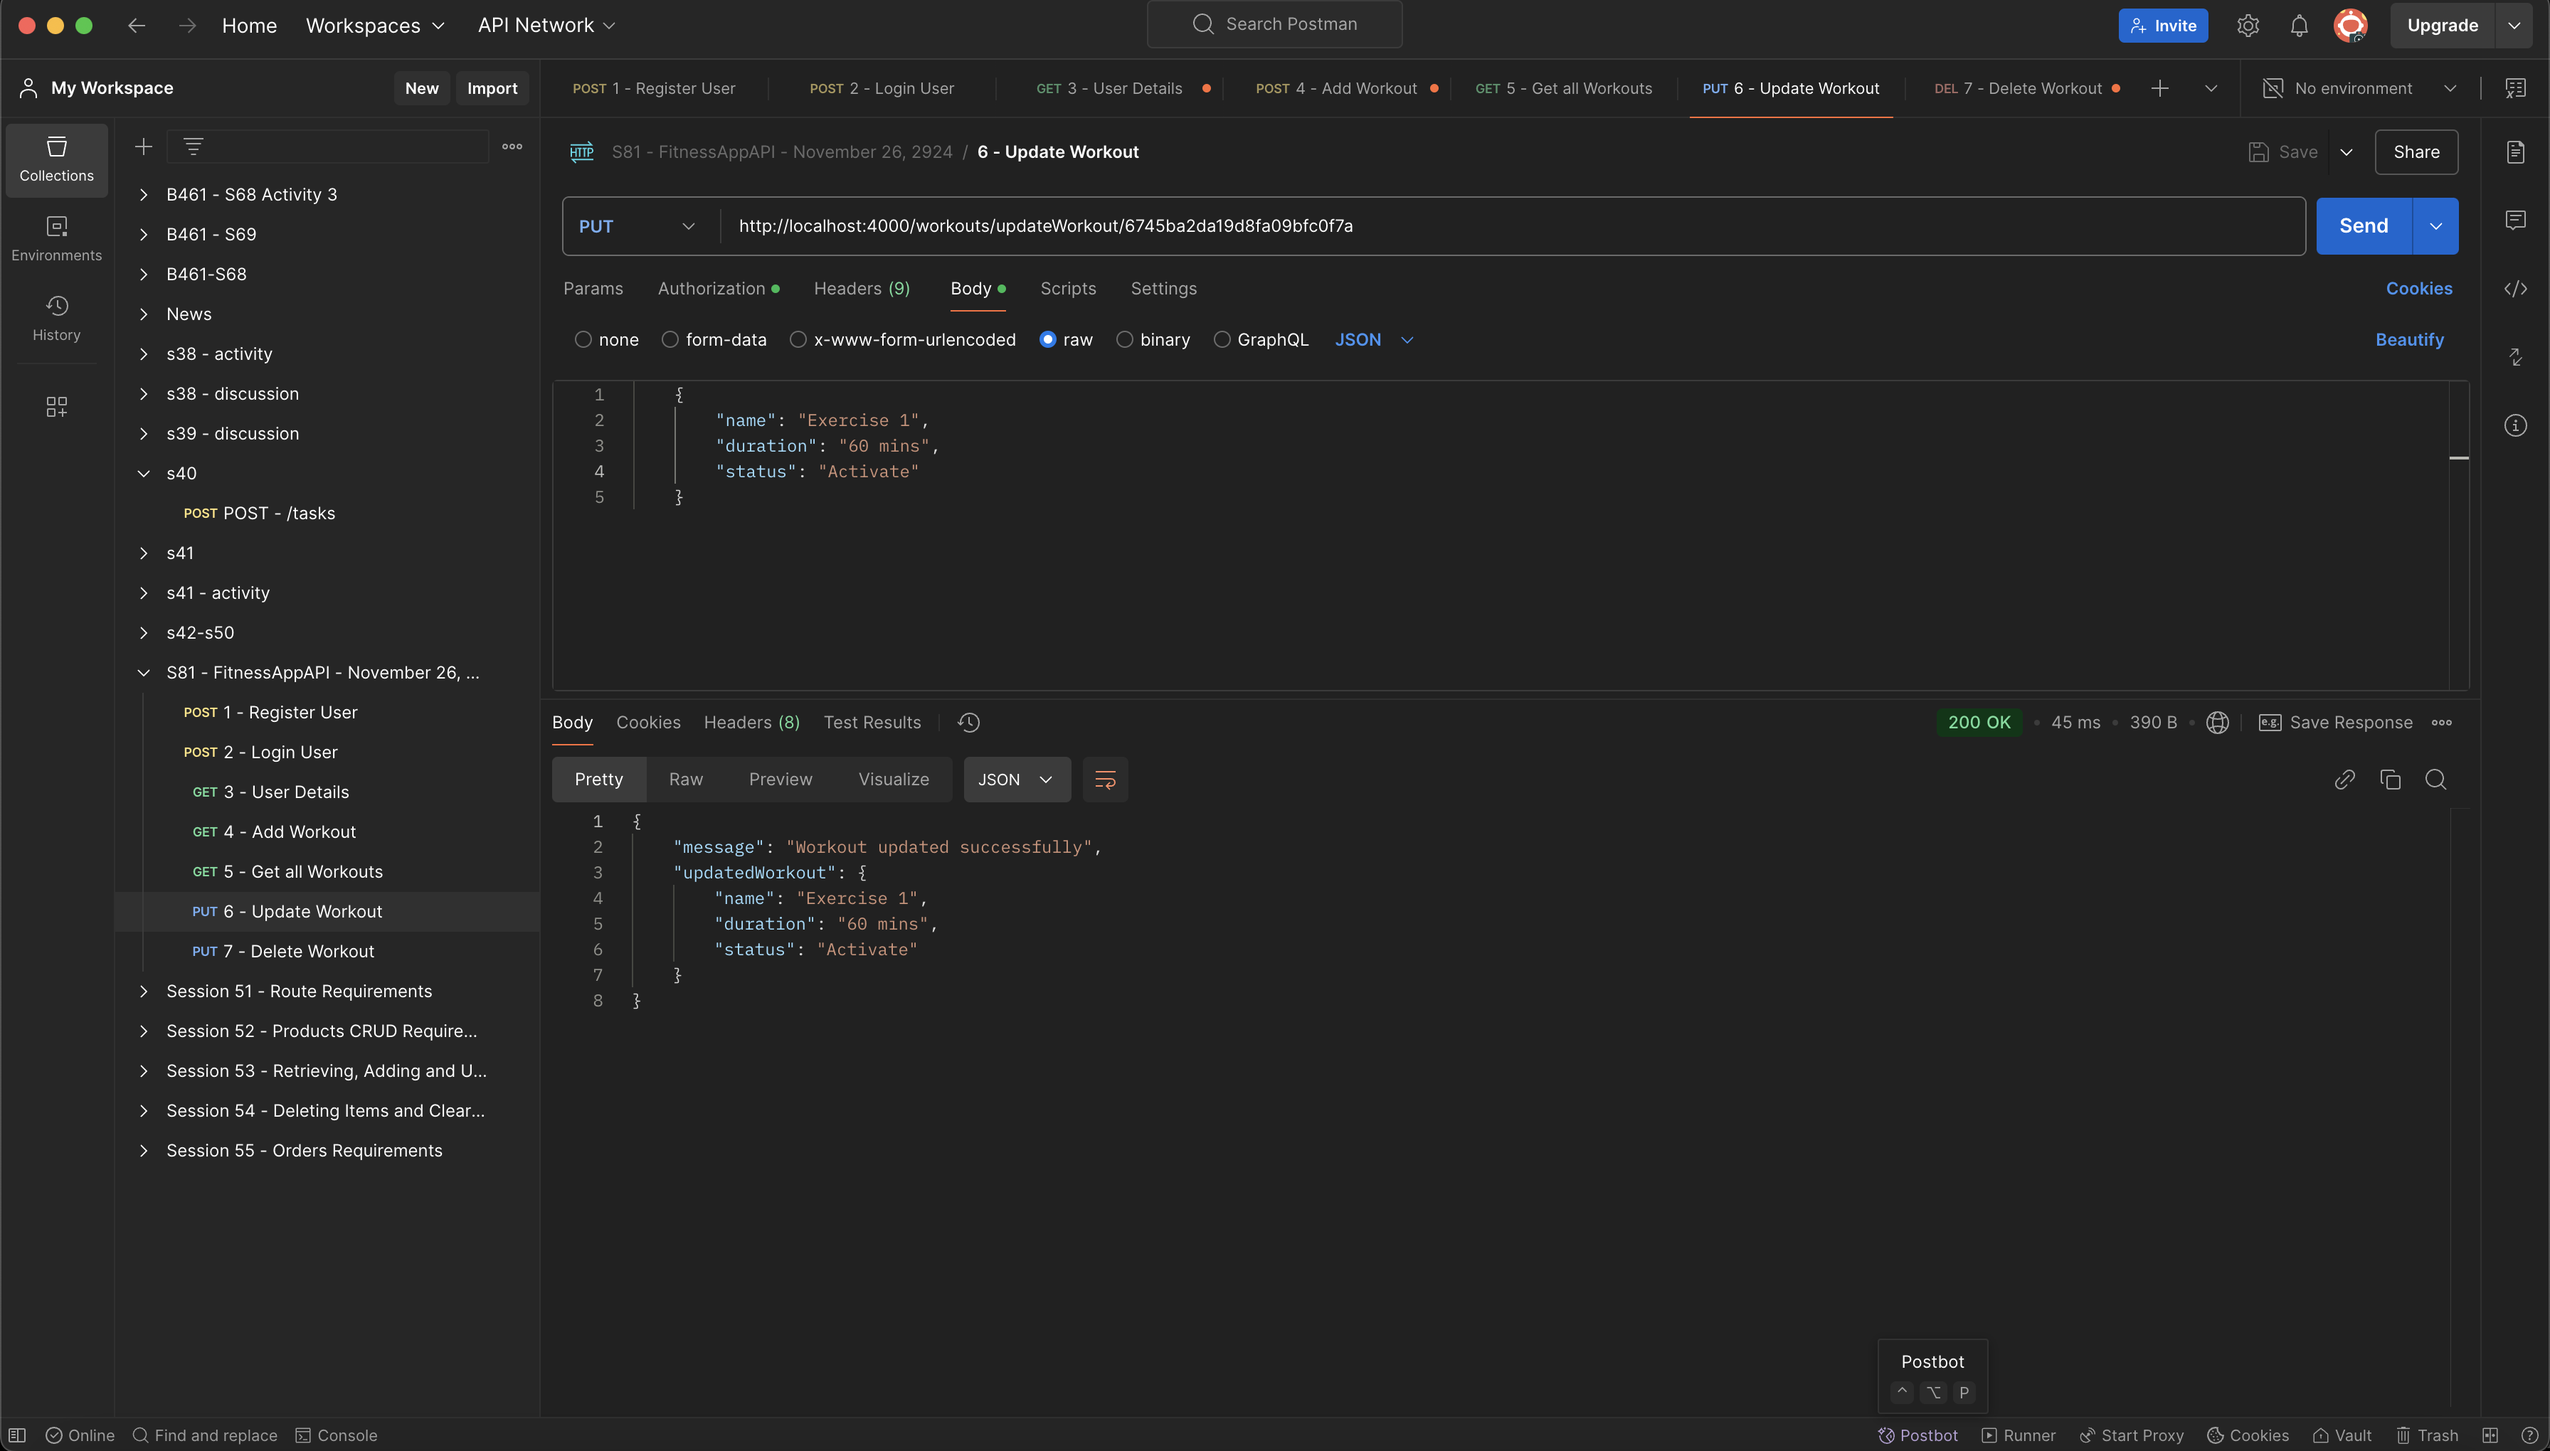
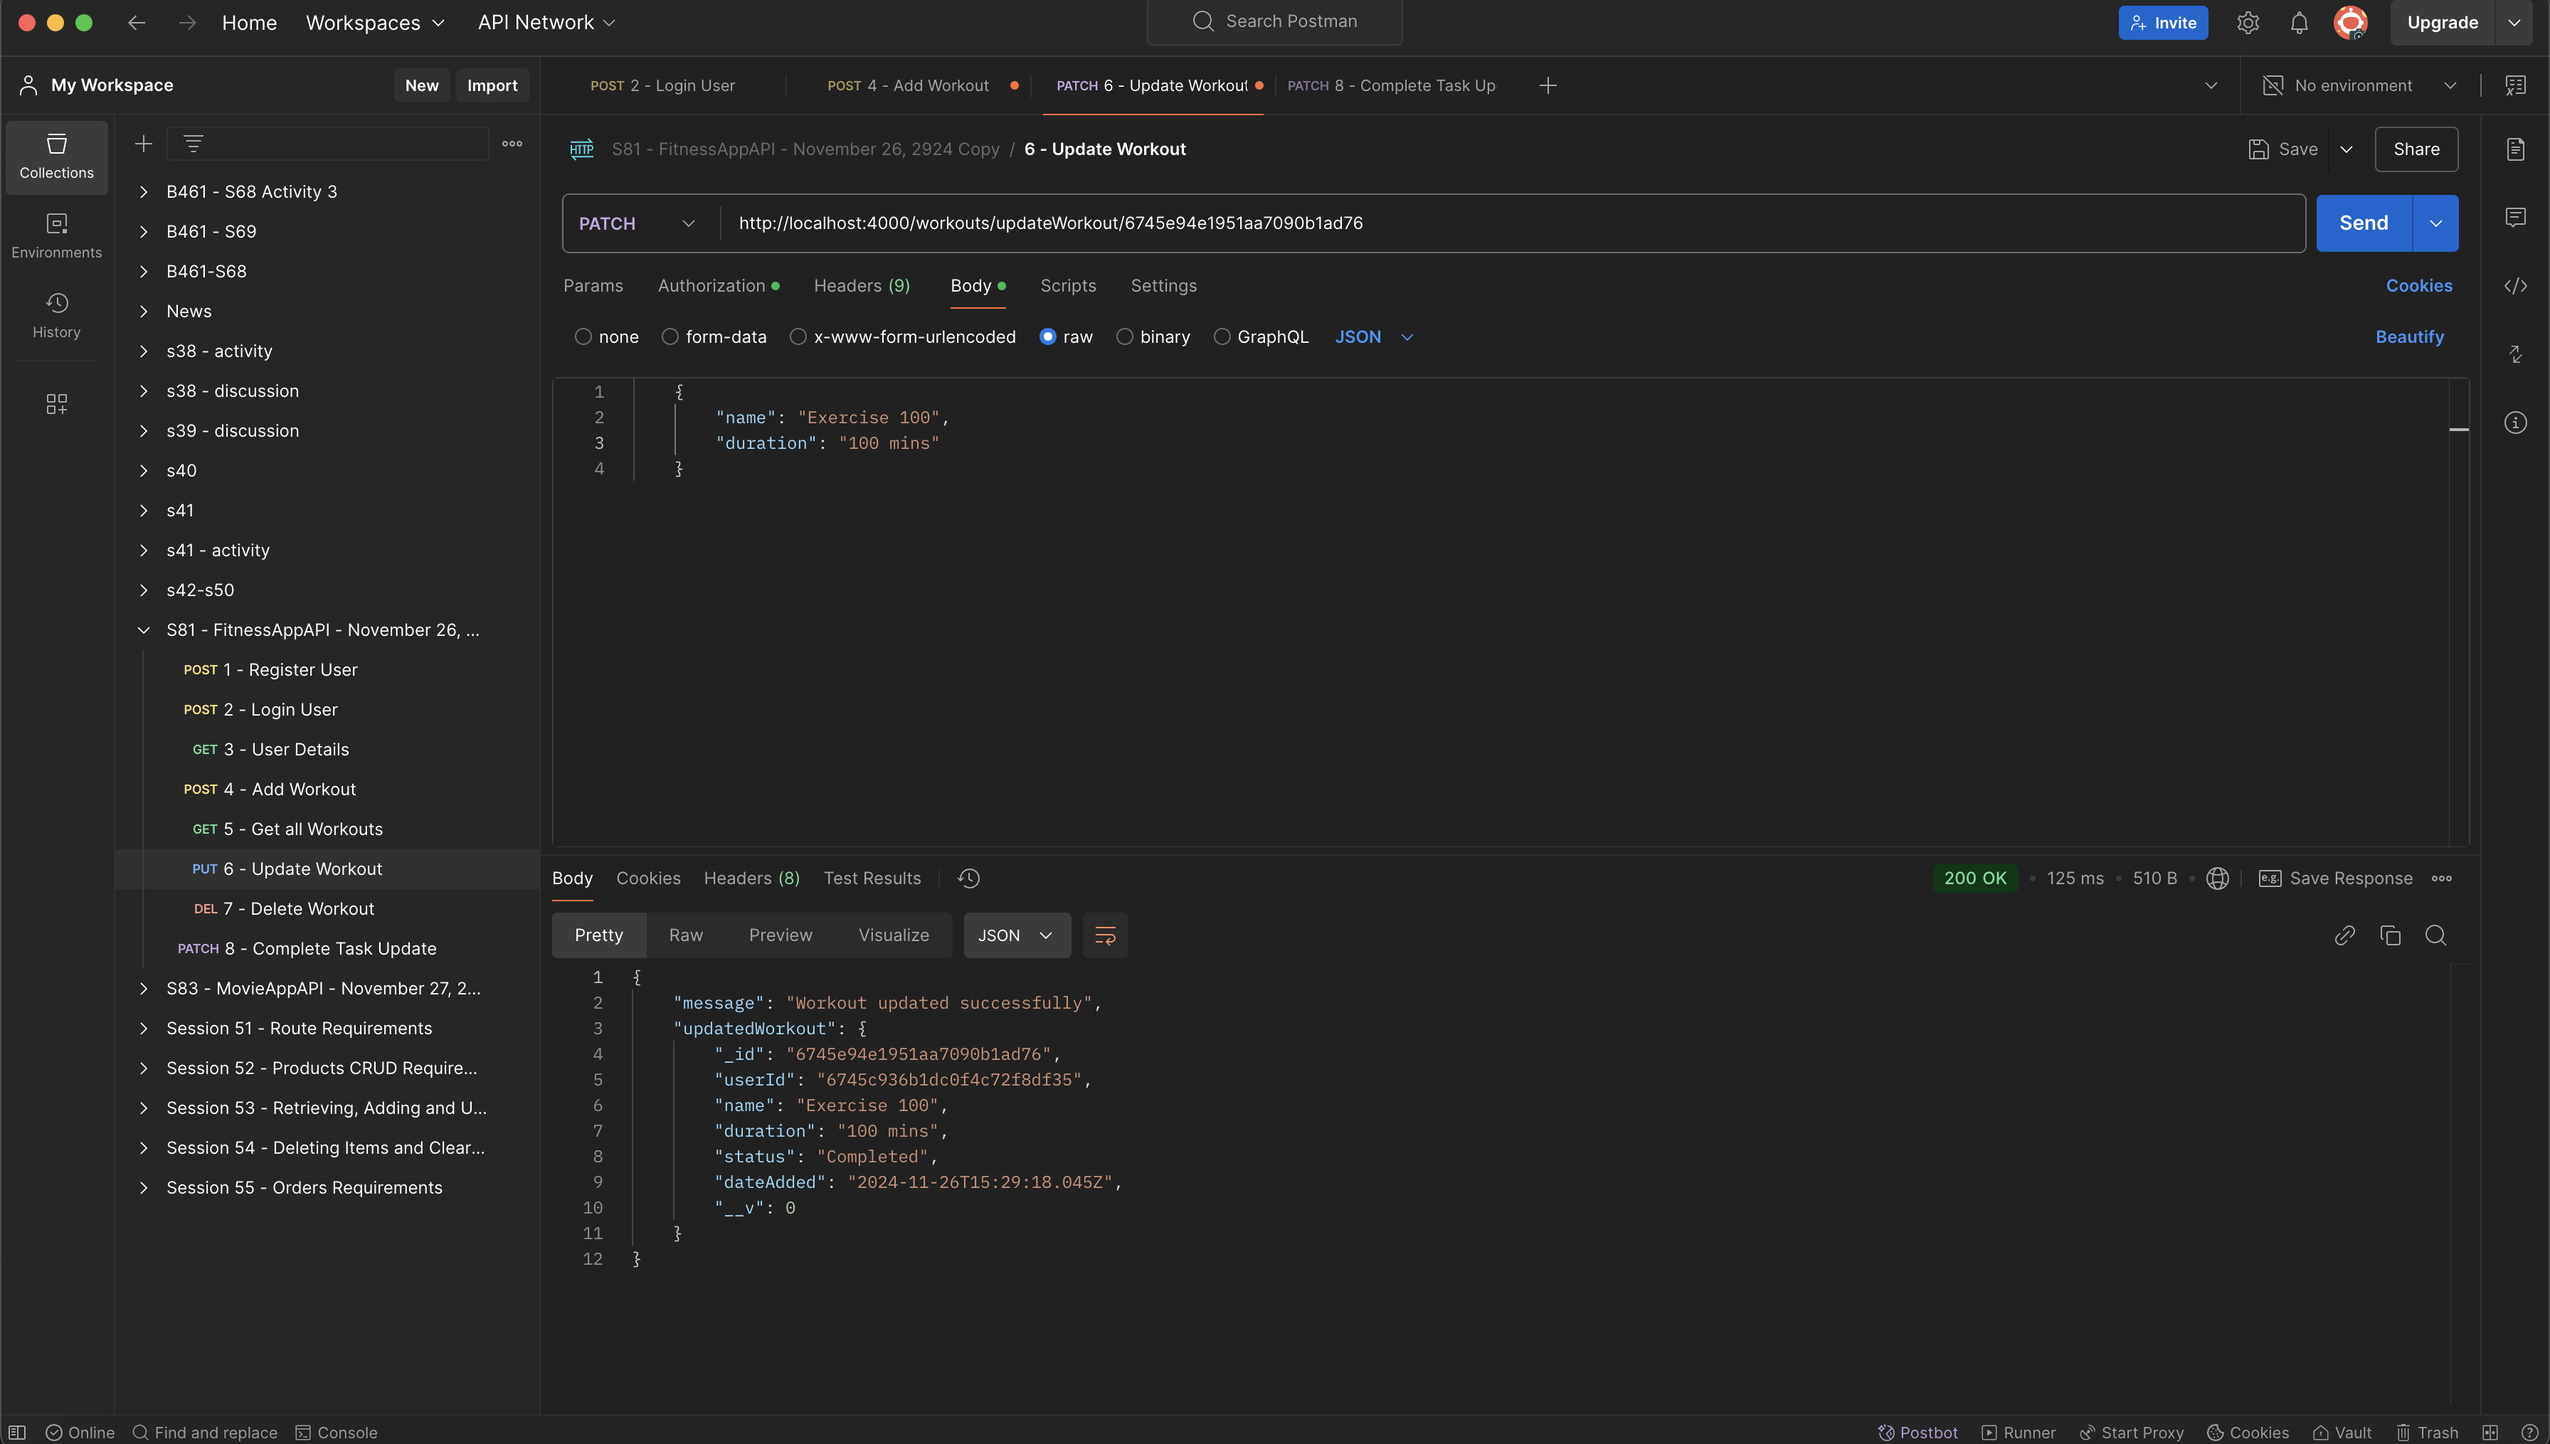
Add revsed code for updateworkouts and completeworkouts

diff --git a/controllers/workout.js b/controllers/workout.js
@@ -39,7 +39,7 @@ module.exports.addWorkout = async (req, res) => {
             userId: userId,
             name: req.body.name,
             duration: req.body.duration,
-            status: req.body.status || 'Pending',
+            status: req.body.status
         });
 
         const savedWorkout = await newWorkout.save();
@@ -85,79 +85,67 @@ module.exports.getMyWorkouts = (req, res) => {
 };
 
 /* Update workouts */
-// module.exports.updateWorkout = (req, res)=>{
-
-//     let updatedWorkout = {
-//         name: req.body.name,
-//         duration: req.body.duration,
-//         dateAdded: req.body.dateAdded,
-//         status: req.body.status,
-//     }
-//     return Workout.findByIdAndUpdate(req.params.workoutId, updatedWorkout)
-//     .then(workout => {
-//         if (workout) {
-//             res.status(201).send({
-//                 message: 'Workout updated successfully',
-//                 updatedWorkout
-//             });
-//         } else {
-//             res.status(404).send({ message: 'Workout not found' });
-//         }
-//     })
-//     .catch(error => errorHandler(error, req, res));
-// };
-
 // module.exports.updateWorkout = (req, res) => {
 //     const userId = req.user.id;
+//     const workoutId = req.params.workoutId;
         
 //     const updatedWorkout = {
 //         userId: userId,
 //         name: req.body.name,
-//         duration: req.body.duration
+//         duration: req.body.duration,
+//         status: req.body.status,
 //     };
 
-//     Workout.findByIdAndUpdate(req.params.workoutId, updatedWorkout, { new: true })
+//     Workout.findByIdAndUpdate(workoutId, updatedWorkout, { new: true })
 //         .then(workout => {
 //             if (workout) {
-//                 res.status(200).send({ message: 'Workout updated successfully', workout });
+//                 res.status(200).send({ message: 'Workout updated successfully', updatedWorkout });
 //             } else {
 //                 res.status(404).send({ message: 'Workout not found.' });
 //             }
 //         })
 //         .catch(err => errorHandler(err, req, res));
 // };
-
 module.exports.updateWorkout = async (req, res) => {
     try {
-        const userId = req.user.id; // Extract user ID from authenticated user
-        const { workoutId } = req.params; // Extract workout ID from URL
+        const userId = req.user.id;
+        const workoutId = req.params.workoutId;
 
-        if (!mongoose.Types.ObjectId.isValid(workoutId)) {
-            return res.status(400).send({ message: 'Invalid workout ID.' });
-        }
-
-        const updatedWorkout = {
+        const updatedWorkoutData = {
+            userId: userId,
             name: req.body.name,
             duration: req.body.duration,
+            status: req.body.status || 'Completed'
         };
 
-        // Find and update the workout only if it belongs to the logged-in user
-        const workout = await Workout.findOneAndUpdate(
-            { _id: workoutId, userId },
-            updatedWorkout,
+        const updatedWorkout = await Workout.findByIdAndUpdate(
+            workoutId,
+            updatedWorkoutData,
             { new: true }
-        );
+        ).populate('userId');
 
-        if (!workout) {
-            return res.status(404).send({ message: 'Workout not found or does not belong to the user.' });
+        if (updatedWorkout) {
+            res.status(200).send( { 
+                message: 'Workout updated successfully',
+                updatedWorkout: {
+                    _id: updatedWorkout._id,
+                    userId: updatedWorkout.userId._id,
+                    name: updatedWorkout.name,
+                    duration: updatedWorkout.duration,
+                    status: updatedWorkout.status,
+                    dateAdded: updatedWorkout.dateAdded,
+                    __v: updatedWorkout.__v
+            }
+            });
+        } else {
+            // If the workout is not found
+            res.status(404).send({ message: 'Workout not found.' });
         }
-
-        res.status(200).send({ message: 'Workout updated successfully.', workout });
     } catch (err) {
-        res.status(500).send({ message: 'Error updating workout.', error: err.message });
+        // Handle errors using a predefined error handler
+        errorHandler(err, req, res);
     }
 };
-
 
 /* Delete workouts */
 module.exports.deleteWorkout = (req, res) => {
@@ -208,48 +196,49 @@ module.exports.deleteWorkout = (req, res) => {
 //         .catch(err => errorHandler(err, req, res));
 // };
 
-// module.exports.completeWorkoutStatus = (req, res) => {
-//     const userId = req.user.id;
+module.exports.completeWorkoutStatus = (req, res) => {
+    const userId = req.user.id;
+    const workoutId = req.params.workoutId
         
-//     const updatedStatusWorkout = {
-//         userId: userId,
-//         name: req.body.name,
-//         duration: req.body.duration,
-//         status: 'Completed'
-//     };
+    const updatedStatusWorkout = {
+        userId: userId,
+        name: req.body.name,
+        duration: req.body.duration,
+        status: 'Completed'
+    };
 
-//     Workout.findByIdAndUpdate(req.params.workoutId, updatedStatusWorkout, { new: true })
-//         .then(workout => {
-//             if (workout) {
-//                 res.status(200).send({ message: 'Workout marked as completed.', workout });
-//             } else {
-//                 res.status(404).send({ message: 'Workout not found.' });
-//             }
-//         })
-//         .catch(err => errorHandler(err, req, res));
-// };
-
-module.exports.completeWorkoutStatus = async (req, res) => {
-    try {
-        const userId = req.user.id;
-        const { workoutId } = req.params;
-
-        if (!mongoose.Types.ObjectId.isValid(workoutId)) {
-            return res.status(400).send({ message: 'Invalid workout ID.' });
-        }
-
-        const workout = await Workout.findOneAndUpdate(
-            { _id: workoutId, userId },
-            { status: 'Completed' },
-            { new: true }
-        );
-
-        if (!workout) {
-            return res.status(404).send({ message: 'Workout not found or does not belong to the user.' });
-        }
-
-        res.status(200).send({ message: 'Workout status updated successfully.', workout });
-    } catch (err) {
-        res.status(500).send({ message: 'Error completing workout status.', error: err.message });
-    }
+    Workout.findByIdAndUpdate(workoutId, updatedStatusWorkout, { new: true })
+        .then(workout => {
+            if (workout) {
+                res.status(200).send({ message: 'Workout marked as completed.', workout });
+            } else {
+                res.status(404).send({ message: 'Workout not found.' });
+            }
+        })
+        .catch(err => errorHandler(err, req, res));
 };
+
+// module.exports.completeWorkoutStatus = async (req, res) => {
+//     try {
+//         const userId = req.user.id;
+//         const { workoutId } = req.params;
+
+//         if (!mongoose.Types.ObjectId.isValid(workoutId)) {
+//             return res.status(400).send({ message: 'Invalid workout ID.' });
+//         }
+
+//         const workout = await Workout.findOneAndUpdate(
+//             { _id: workoutId, userId },
+//             { status: 'Completed' },
+//             { new: true }
+//         );
+
+//         if (!workout) {
+//             return res.status(404).send({ message: 'Workout not found or does not belong to the user.' });
+//         }
+
+//         res.status(200).send({ message: 'Workout status updated successfully.', workout });
+//     } catch (err) {
+//         res.status(500).send({ message: 'Error completing workout status.', error: err.message });
+//     }
+// };

diff --git a/routes/workout.js b/routes/workout.js
@@ -12,14 +12,12 @@ router.post('/addWorkout', verify, isLoggedIn, workoutController.addWorkout);
 router.get('/getMyWorkouts', verify, isLoggedIn, workoutController.getMyWorkouts);
 
 // Update a workout by ID
-router.put('/updateWorkout/:workoutId', verify, isLoggedIn, workoutController.updateWorkout);
+router.patch('/updateWorkout/:workoutId', verify, isLoggedIn, workoutController.updateWorkout);
 
 // Delete a workout by ID
 router.delete('/deleteWorkout/:workoutId', verify, isLoggedIn, workoutController.deleteWorkout);
 
 // Complete a workout by ID
-// router.patch('/completeWorkoutStatus/:workoutId', verify, isLoggedIn, workoutController.completeWorkoutStatus);
-
 router.patch('/completeWorkoutStatus/:workoutId', verify, isLoggedIn, workoutController.completeWorkoutStatus);
 
 module.exports = router;

diff --git a/models/Workout.js b/models/Workout.js
@@ -1,13 +1,9 @@
 const mongoose = require('mongoose');
 
 const workoutSchema = new mongoose.Schema({
-    // userId: {
-	//   type: String,  // Reference to the user
-	//   required: [true, 'User ID is required.']
-    // },
     userId: {
-        type: mongoose.Schema.Types.ObjectId, // Reference to the user
-        ref: 'User', // User model
+        type: mongoose.Schema.Types.ObjectId, 
+        ref: 'User',
         required: [true, 'User ID is required.']
     },
     name: {

diff --git a/auth.js b/auth.js
@@ -64,7 +64,7 @@ module.exports.verify = (req, res, next) =>{
 				});
 			}else{
 
-				console.log("result from verify method")
+				console.log("Result from verify method")
 				console.log(decodedToken)
 
 				req.user = decodedToken;
